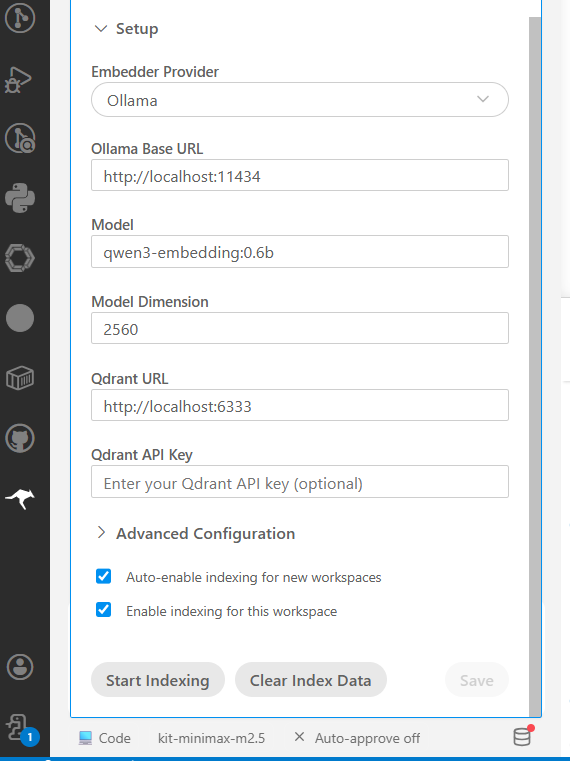
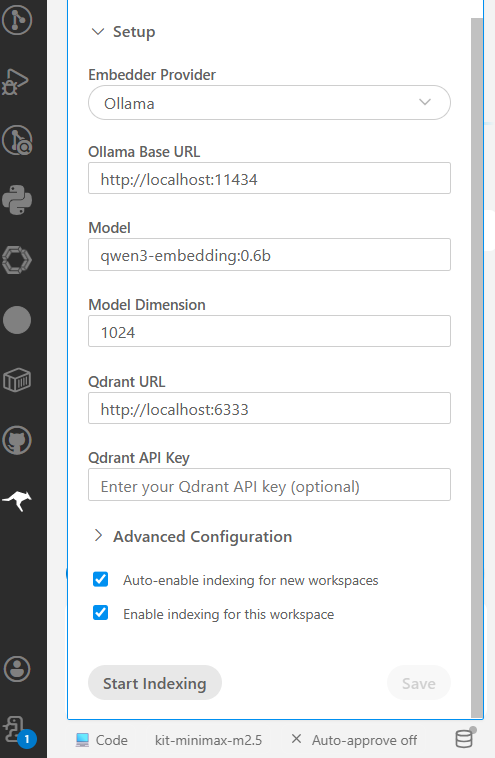
🚧

diff --git a/docs/tutorial-code-integration.md b/docs/tutorial-code-integration.md
@@ -6,7 +6,11 @@ You can use your own (simple) Python module for this tutorial or rely on the pro
 
 This will mostly be a series of prompts to be put into the Roo chat with a bit of extra explanation. Be sure to check out the other docs to find more information about what's going on.
 
-## 1. Add missing dependencies
+## 0. Add missing deps
+
+**Prompt**: Add the dependencies `fluids` and `pint`. Use `uv add` in the terminal.
+
+## 1. Convert function to class
 
 > This is a pattern for deferred function execution, where you first collect the args as attributes of an object and then execute via a dedicated method. It is rather optional but makes integrating with SQL data-storage easier.
 
